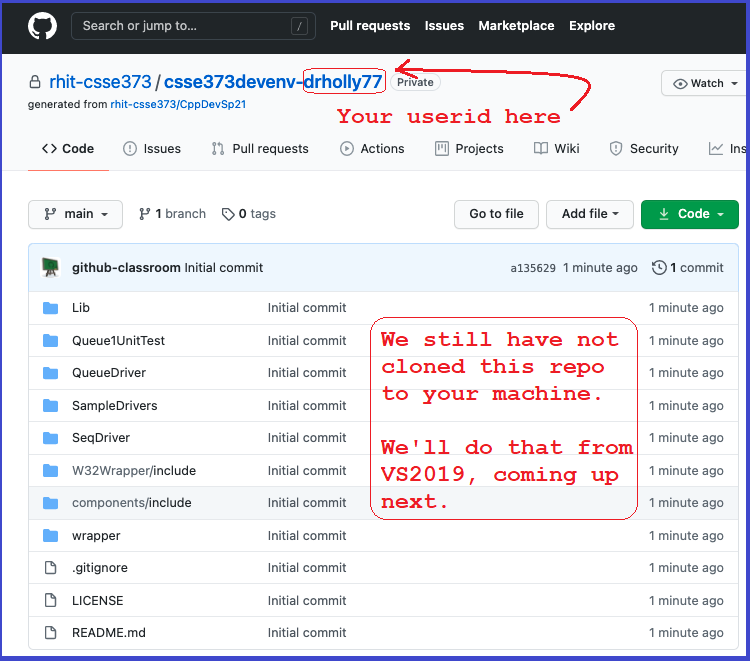
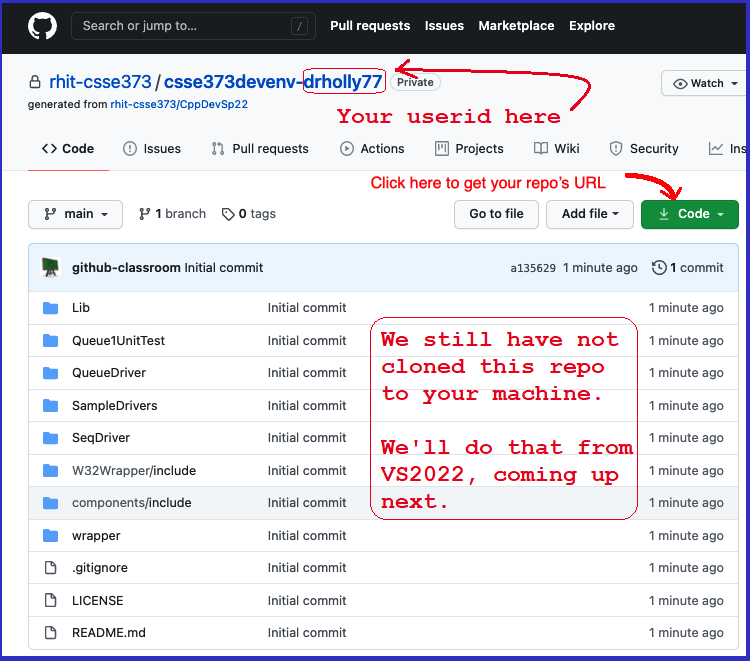
update github instructions

diff --git a/GitHub/CreateGitHubRepo.html b/GitHub/CreateGitHubRepo.html
@@ -16,7 +16,8 @@
 <h3>1. Follow the link to GitHub Classrom</h3>
 <ul>
   <li>Steps 2 through 5 below provide instructions for what to do when you follow the GitHub Classroom link&nbsp; &nbsp; &nbsp;</li>
-  <li>Link to <a target="_blank" href="https://classroom.github.com/a/59vxfXfa">GitHub Classroom</a></li>
+	<! the following URL comes from GitHub Classroom - Copy Invitation Link from an already created assignment >
+  <li>Link to <a target="_blank" href="https://classroom.github.com/a/H-qMQnXi">GitHub Classroom</a></li>
 </ul>
 
 <h3>2. Accept the assignment from GitHub Classroom</h3>
